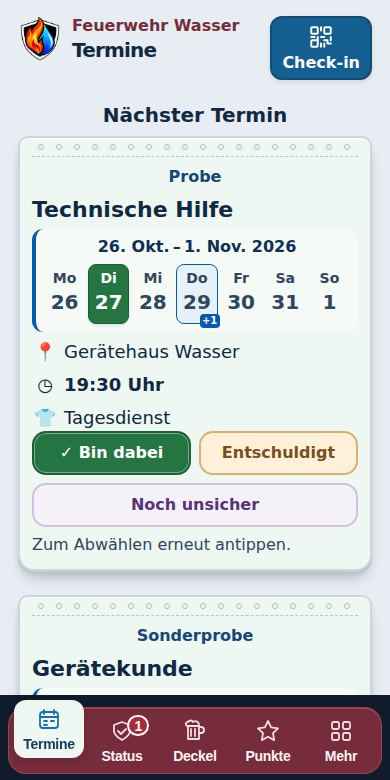
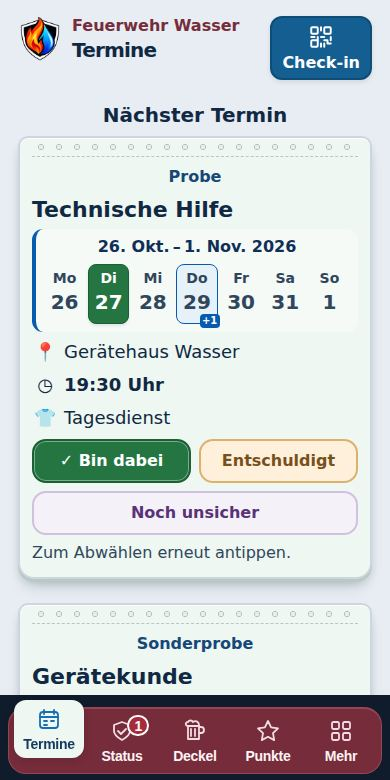
H2O: Mehr Abstand unter der Kleidung vor der Rückmeldung

Changed region(s): [[0.0308, 0.5538, 0.9538, 0.8923]]

diff --git a/css/features/portal.css b/css/features/portal.css
@@ -166,6 +166,7 @@
 .portal-calendar-week-cell.has-more-events::after{content:"+" attr(data-other-count);position:absolute;bottom:-5px;right:-3px;min-width:16px;height:14px;padding:0 2px;border-radius:4px;background:#075baf;color:#fff;font-size:.625rem;font-weight:800;line-height:14px;text-align:center}
 .portal-event-time .portal-event-clock{margin:0;padding:0;background:none;color:var(--ink);font-size:inherit;font-weight:800;line-height:inherit;white-space:normal}
 #portal-events .portal-event-meta{display:flex;align-items:flex-start;gap:12px;padding:4px 0;margin:0;font-size:var(--portal-body-size,1rem);line-height:1.4}
+#portal-events .portal-event-meta[aria-label^="Kleidung:"]{margin-bottom:8px}
 .portal-event-meta>span:first-child{flex:none;width:26px;text-align:center}.portal-event-meta>span:last-child{min-width:0}
 #portal-events .portal-overview-open{display:flex;align-items:center;gap:8px;background:#edf3f9;color:#254e71;border:1px solid #c4d3e2;border-radius:12px;box-shadow:none;text-align:left;padding:8px 10px;min-height:44px;font-size:var(--portal-support-size,.9375rem);font-weight:700;text-decoration:none}
 #portal-events .portal-overview-open::after{content:"›";margin-left:auto;flex:none;font-size:1.5rem;line-height:1}
@@ -224,6 +225,7 @@
    technology while giving very short phones the full card area. */
 @media(max-width:600px) and (max-height:599px){
  #portal-events .portal-event{padding-top:12px}
+ #portal-events .portal-event-meta[aria-label^="Kleidung:"]{margin-bottom:4px}
  #portal-events .portal-answer{font-size:.9375rem}
  #portal-events .portal-event::before{top:2px;height:6px;background-size:18px 6px}
  #portal-events .portal-event::after{top:9px}
